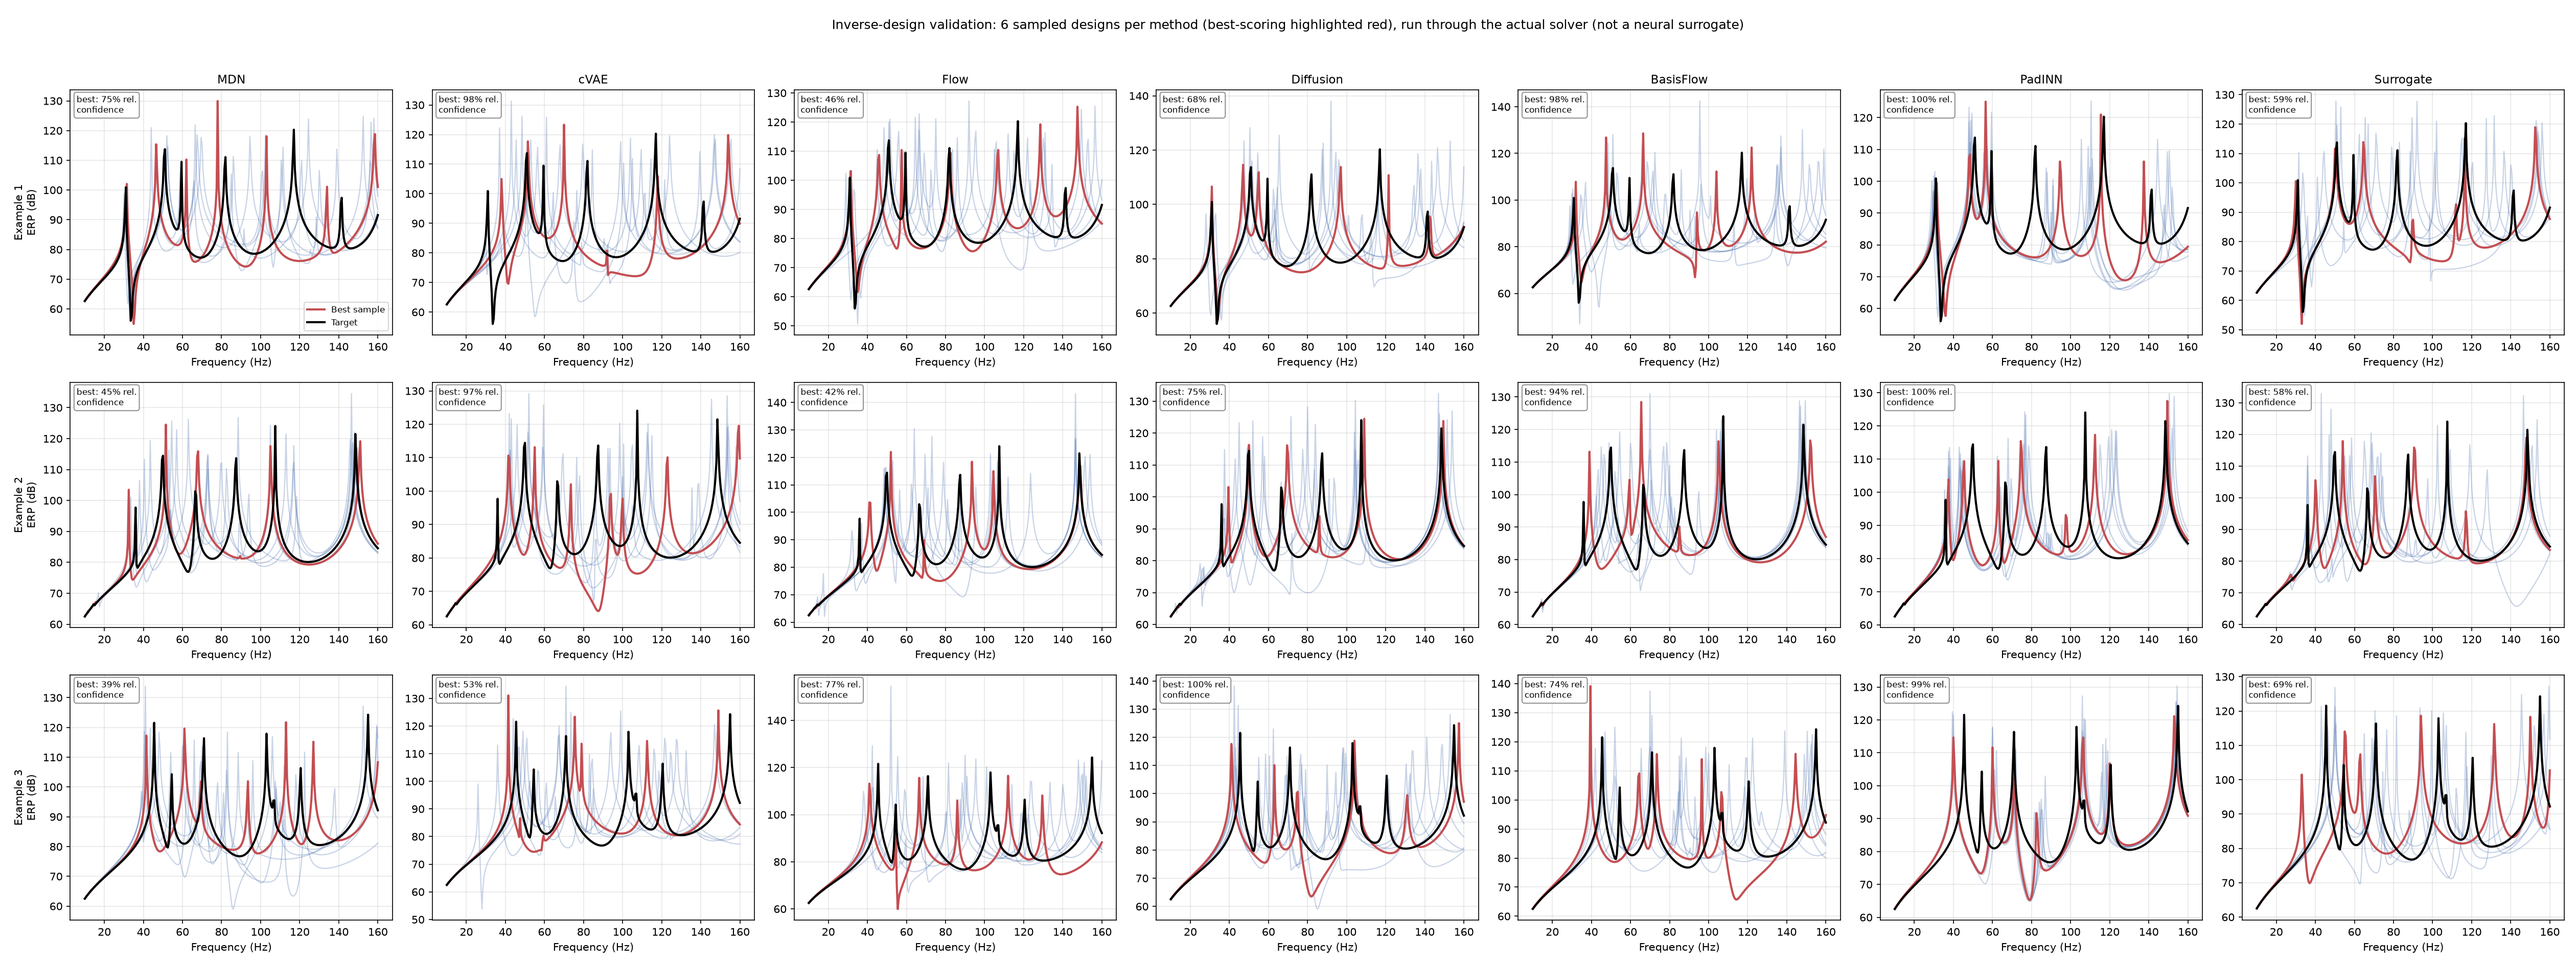
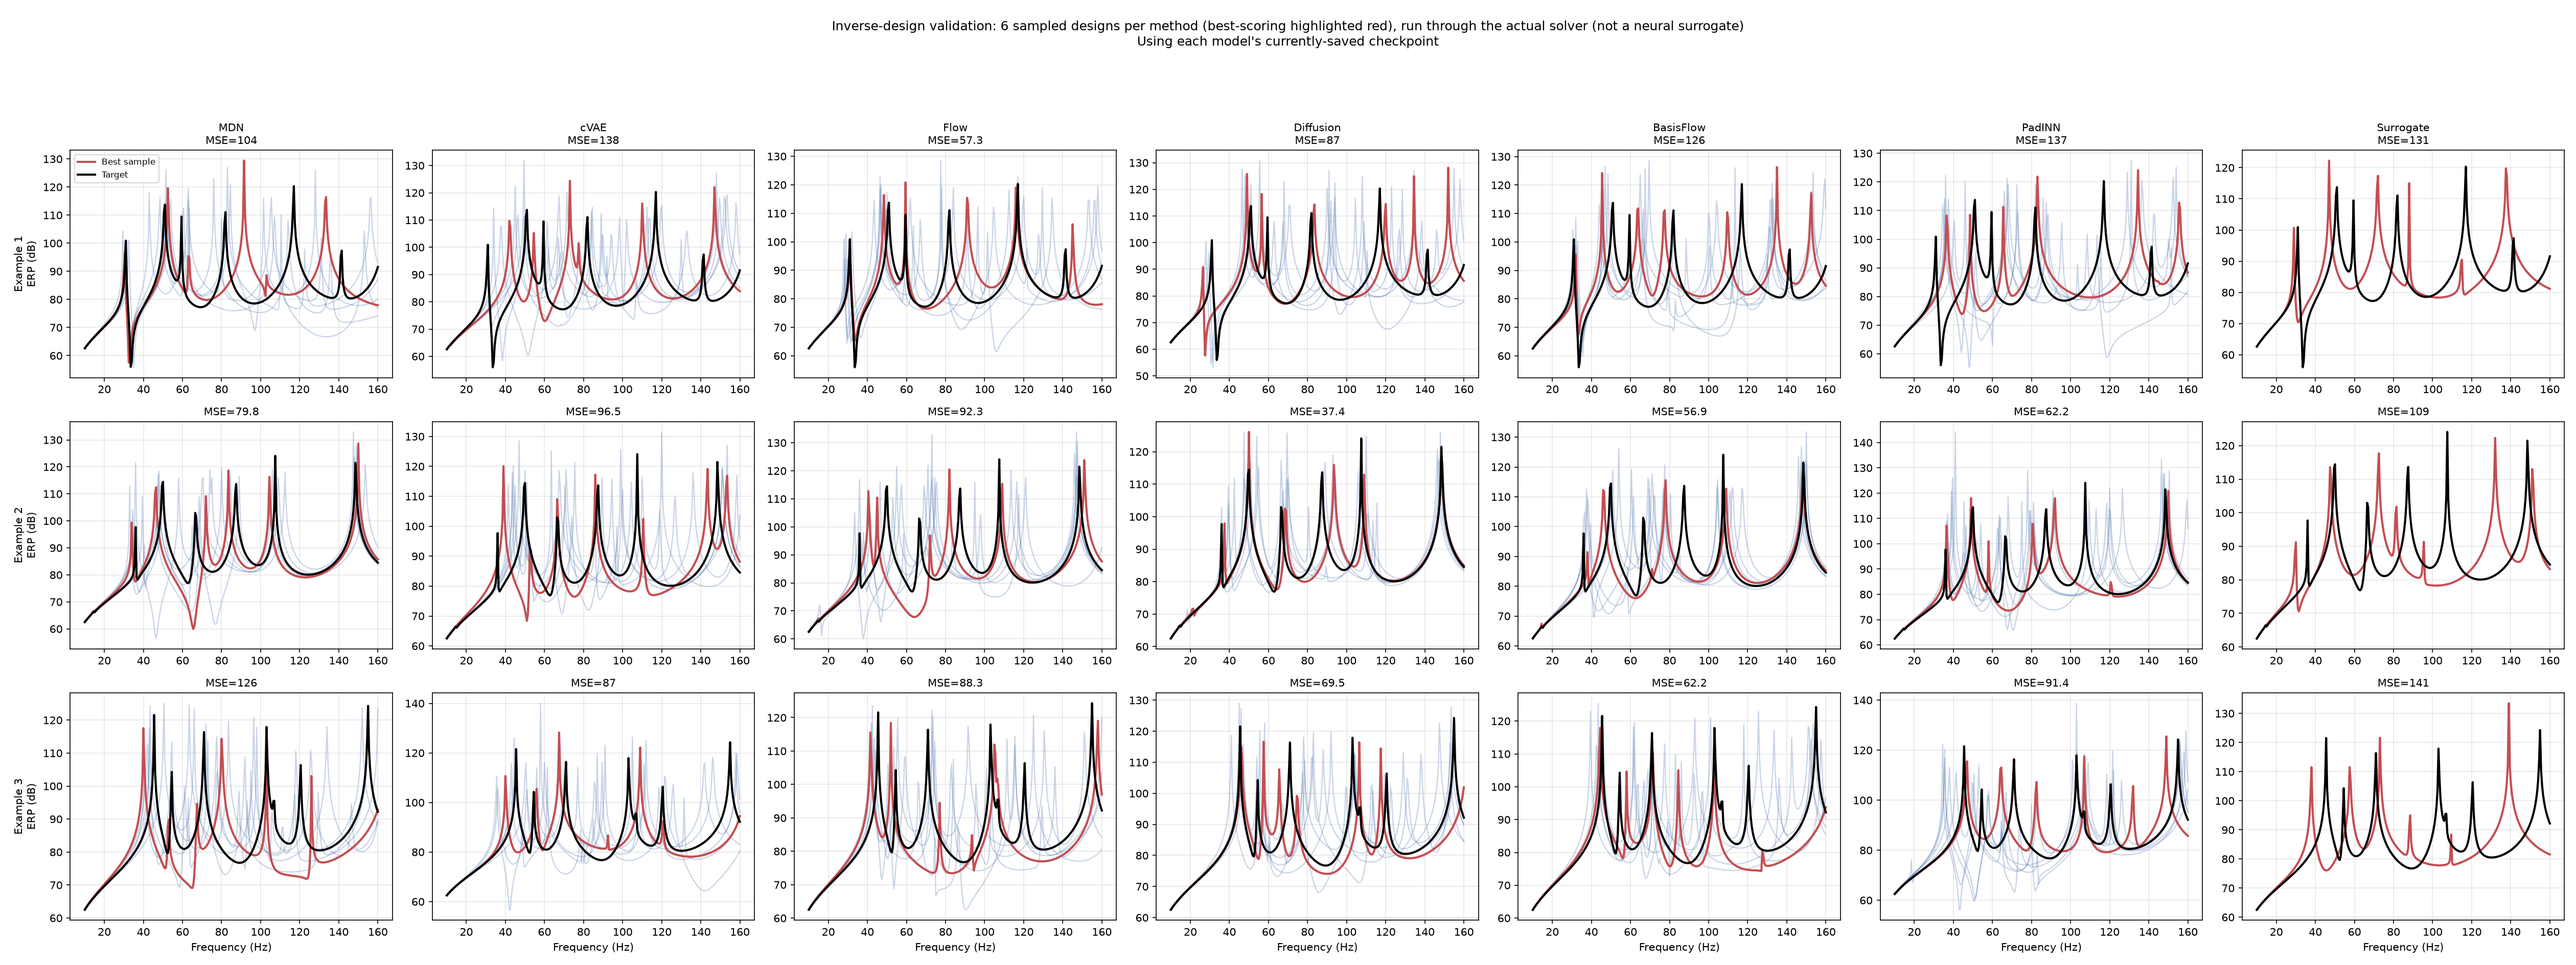
Refresh combined 7-model ERP-spectrum validation figure with latest checkpoints
Regenerated erp_inverse_operators/plots/validation_reconstructions.png
(actual predicted-vs-true ERP spectrum CURVES over frequency, 3 held-out
targets x 6 sampled designs per model, real solver) -- the committed
version was last built Sep 23, before last night's 6-model retrain and
today's SurrogateInverse rework, so every model's checkpoint had changed
since.

Added erp_inverse_operators/rebuild_validation_curves.py: loads each
model's CURRENTLY-saved checkpoint (via evaluate.py's load_inverse_model)
rather than retraining, so this figure can be refreshed cheaply (~30s)
whenever checkpoints change, without needing a full train_all.py run.

Claude-Session: https://claude.ai/code/session_01Xi6afoA5dMCYhCAXGZ3yMw

diff --git a/erp_inverse_operators/rebuild_validation_curves.py b/erp_inverse_operators/rebuild_validation_curves.py
@@ -1,0 +1,110 @@
+"""Regenerate the combined 7-model ERP-SPECTRUM (frequency vs. dB curve,
+not a scatter of points) validation figure, using each model's CURRENTLY
+saved checkpoint (loaded, not retrained) -- the committed version predates
+last night's 6-model retrain and today's SurrogateInverse rework entirely.
+"""
+from __future__ import annotations
+
+import sys
+sys.path.insert(0, "/home/user/code_3")
+
+import os
+from concurrent.futures import ProcessPoolExecutor
+from pathlib import Path
+
+import matplotlib
+matplotlib.use("Agg")
+import matplotlib.pyplot as plt
+import numpy as np
+import torch
+
+from erp_inverse_operators.common import denormalize_design, prepare_inverse_data
+from erp_inverse_operators.evaluate import MODEL_BUILDERS, SPAWN_CONTEXT, load_inverse_model, solve_configs
+from erp_inverse_operators.registry import NUM_RES
+from utils.erp_dataset import denormalize_erp_array
+
+OUT_DIR = Path("erp_inverse_operators/plots")
+NUM_EXAMPLES = 3
+NUM_SAMPLES = 6
+
+
+def main():
+    dataset, loaders = prepare_inverse_data(
+        num_configurations=100000, batch_size=64,
+        dataset_file=[
+            "datasets/dataset_erp_ft_100k_part1.pth",
+            "datasets/dataset_erp_ft_100k_part2.pth",
+        ],
+        seed=727,
+    )
+    norm = dataset.norm_params
+    freq_hz = np.asarray(dataset.frequency_values)
+
+    test_spectrum, test_design = [], []
+    for spectrum, design in loaders["test"]:
+        test_spectrum.append(spectrum)
+        test_design.append(design)
+        if sum(s.shape[0] for s in test_spectrum) >= NUM_EXAMPLES:
+            break
+    test_spectrum = torch.cat(test_spectrum, dim=0)[:NUM_EXAMPLES]
+    true_erp = denormalize_erp_array(test_spectrum.numpy(), norm)
+
+    names = list(MODEL_BUILDERS)
+    models = {}
+    for name in names:
+        print(f"Loading {name} ...")
+        model, _ = load_inverse_model(name)
+        models[name] = model
+
+    solver_pool = ProcessPoolExecutor(max_workers=max(1, os.cpu_count() or 1), mp_context=SPAWN_CONTEXT)
+
+    fig, axes = plt.subplots(NUM_EXAMPLES, len(names), figsize=(4.8 * len(names), 4.2 * NUM_EXAMPLES))
+    for row in range(NUM_EXAMPLES):
+        for col, name in enumerate(names):
+            model = models[name]
+            model.eval()
+            with torch.no_grad():
+                result = model.sample(test_spectrum[row : row + 1], num_samples=NUM_SAMPLES)
+            has_log_prob = isinstance(result, tuple)
+            flat_samples = result[0][0] if has_log_prob else result[0]
+            log_probs = result[1][0] if has_log_prob else None
+
+            physical = denormalize_design(flat_samples.numpy(), NUM_RES, norm)
+            predicted_erp = solve_configs(solver_pool, physical, freq_hz)
+            recon_mse = ((predicted_erp - true_erp[row][None, :]) ** 2).mean(axis=1)
+            best_idx = int(log_probs.numpy().argmax()) if has_log_prob else int(recon_mse.argmin())
+
+            ax = axes[row, col] if NUM_EXAMPLES > 1 else axes[col]
+            for i in range(NUM_SAMPLES):
+                if i == best_idx:
+                    continue
+                ax.plot(freq_hz, predicted_erp[i], color="#4C72B0", alpha=0.3, lw=1.1)
+            ax.plot(freq_hz, predicted_erp[best_idx], color="#C44E52", lw=2.0,
+                     label="Best sample" if row == 0 and col == 0 else None)
+            ax.plot(freq_hz, true_erp[row], color="black", lw=2,
+                     label="Target" if row == 0 and col == 0 else None)
+            ax.set_title(f"{name}\nMSE={recon_mse[best_idx]:.3g}" if row == 0 else f"MSE={recon_mse[best_idx]:.3g}",
+                         fontsize=10)
+            if col == 0:
+                ax.set_ylabel(f"Example {row + 1}\nERP (dB)")
+            if row == NUM_EXAMPLES - 1:
+                ax.set_xlabel("Frequency (Hz)")
+            ax.grid(alpha=0.3)
+            if row == 0 and col == 0:
+                ax.legend(fontsize=8)
+
+    fig.suptitle(
+        f"Inverse-design validation: {NUM_SAMPLES} sampled designs per method "
+        "(best-scoring highlighted red), run through the actual solver (not a neural surrogate)\n"
+        "Using each model's currently-saved checkpoint",
+        fontsize=12,
+    )
+    fig.tight_layout(rect=[0, 0, 1, 0.93])
+    fig.savefig(OUT_DIR / "validation_reconstructions.png", dpi=150)
+    plt.close(fig)
+    solver_pool.shutdown()
+    print(f"Saved {OUT_DIR / 'validation_reconstructions.png'}")
+
+
+if __name__ == "__main__":
+    main()
